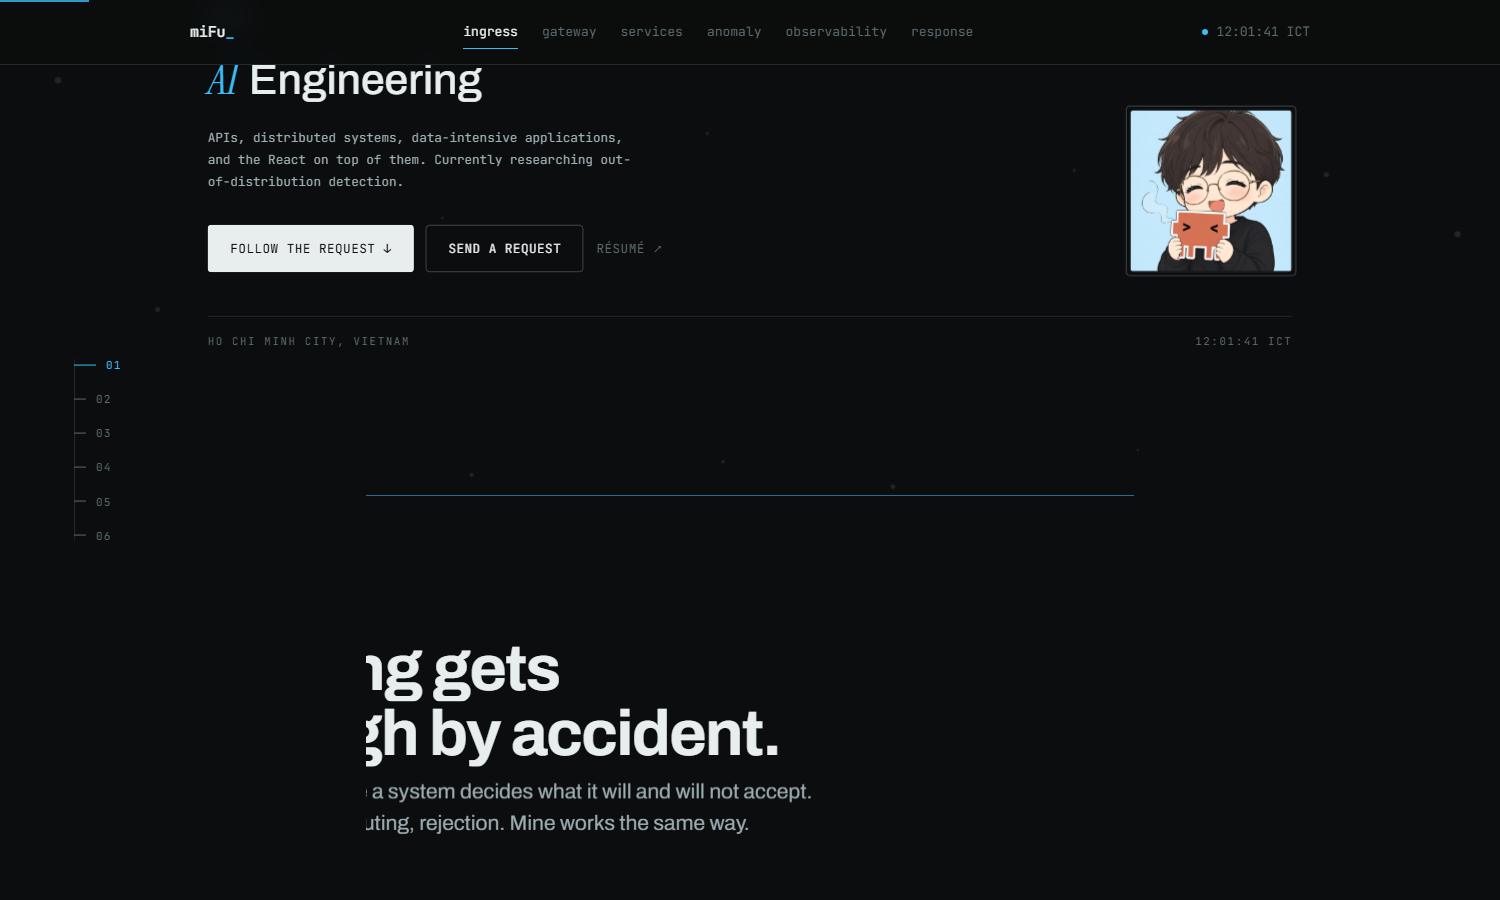
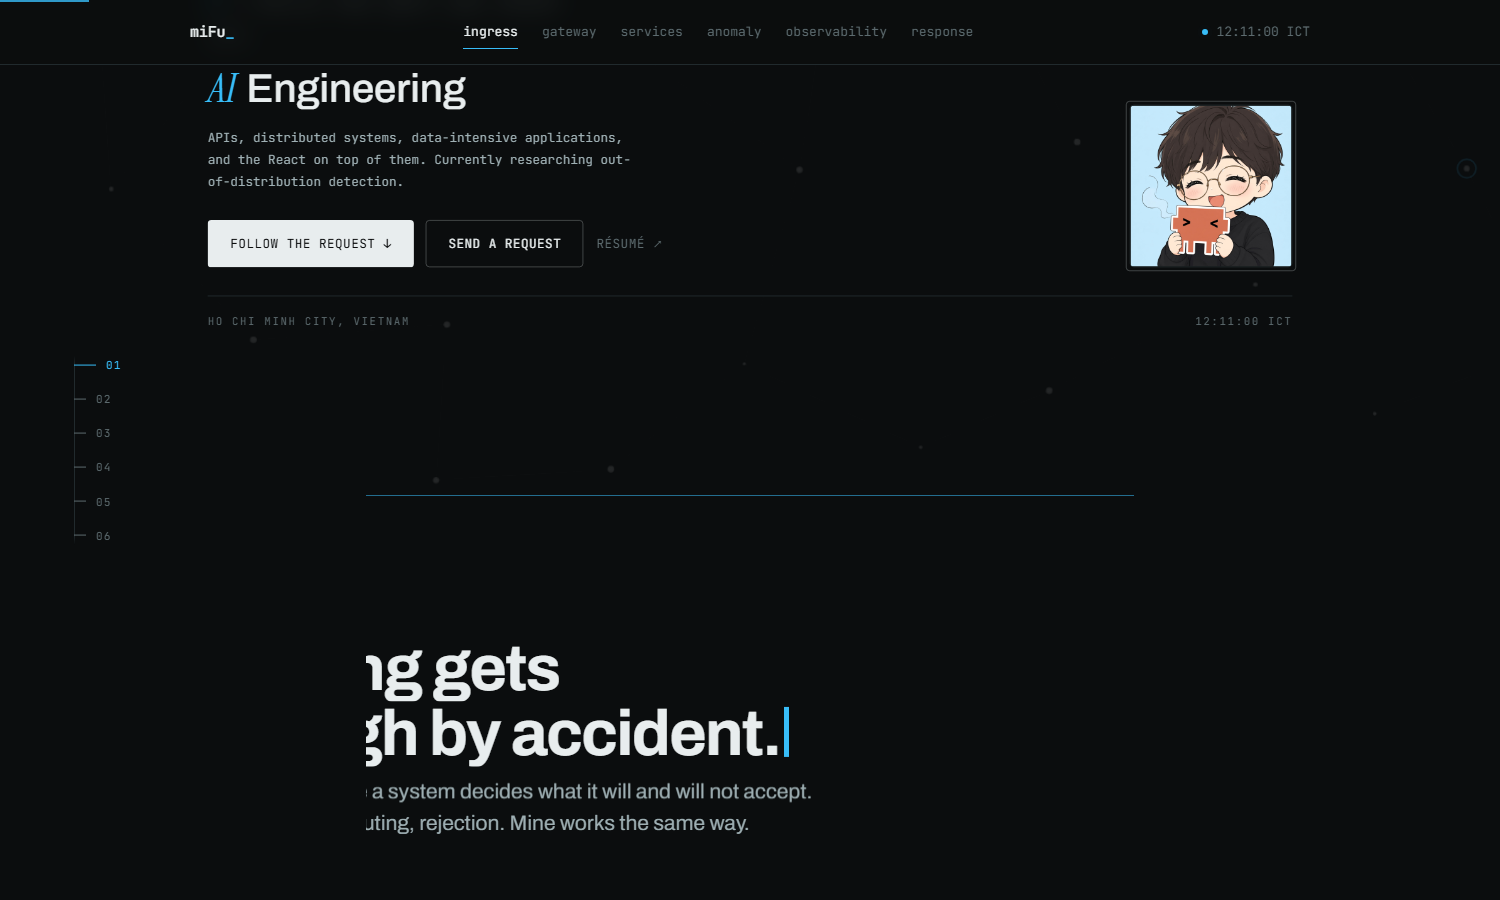
fix(hero): keep the opening frame inside one viewport
The hero overflowed its own first screen on short viewports: 52px at 1536x815,
80px at 1440x780, 117px at 1280x720, so the foot and the scroll cue sat under the
fold. The rhythm is height-aware now: the top and bottom padding, the five gaps
inside the block, the display size and the role size each take a share of the
viewport instead of a fixed number. Measured after: the hero is exactly the
viewport height at 1280x720, 1440x780, 1500x900, 1536x815 and 1920x1010.

The role swap is slower and only half animated. The cadence is 4.2s instead of
3.4s; the word that leaves dissolves at 300ms with a 24ms stagger; the tail dips
for 400ms. Nothing animates on the way in: the new word is there the instant it
changes, painted above the one dissolving behind it, and the tail snaps back
rather than sliding, because a return animation lands a beat after the word has
already been read. The glyph fragments are gone for now.

Verification: pnpm scroll, 39 checks, all passing. The role check now catches the
tail in the act of dipping, since it only animates while leaving.

diff --git a/src/styles/app.css b/src/styles/app.css
@@ -439,8 +439,12 @@
   /* Centred, not bottom-aligned: `end` pushed the block to the floor of the
      viewport and left a dead band at the top on tall screens. */
   align-items: center;
-  padding-top: 96px;
-  padding-bottom: clamp(2.5rem, 8vh, 6rem);
+  /* Height-aware, all of it. The opening frame is a claim, a role, a lead, the
+     actions and the foot, and on a 720px viewport the fixed rhythm this started
+     with ran the foot off the bottom of the hero, so the page's first screen no
+     longer fitted its own first screen. */
+  padding-top: clamp(64px, 10vh, 96px);
+  padding-bottom: clamp(32px, 7vh, 6rem);
   overflow: hidden;
 }
 
@@ -493,7 +497,7 @@
   letter-spacing: 0.02em;
   color: var(--text-body);
   line-height: 1.5;
-  margin-top: var(--sp-6);
+  margin-top: clamp(10px, 1.8vh, var(--sp-6));
   max-width: 34ch;
   min-height: 3em;
 }
@@ -521,8 +525,8 @@
 .hero__role {
   display: flex;
   align-items: baseline;
-  margin-top: var(--sp-6);
-  font-size: clamp(1.75rem, 3.4vw, 2.75rem);
+  margin-top: clamp(10px, 1.8vh, var(--sp-6));
+  font-size: clamp(1.5rem, min(3.4vw, 4.6vh), 2.75rem);
   line-height: 1.15;
 }
 
@@ -541,6 +545,8 @@
 }
 
 .role__word {
+  position: relative;
+  z-index: 1;
   display: inline-block;
   white-space: nowrap;
 }
@@ -549,26 +555,20 @@
   position: absolute;
   left: 0;
   top: 0;
+  z-index: 0;
   pointer-events: none;
 }
 
-/* Left to right, a character at a time: the word comes apart rather than being
-   swapped out, which is the effect the reference site gets from petals. */
+/* The word that arrives does so at once; only the one leaving is animated. It
+   dissolves left to right a character at a time, behind the new word, so the
+   line is readable the whole way through the swap. */
 .role__char {
   display: inline-block;
-  animation: roleCharIn 340ms var(--ease-out) both;
-  animation-delay: calc(180ms + var(--i, 0) * 28ms);
 }
 
 .role__word--out .role__char {
   animation: roleCharOut 300ms var(--ease-out) both;
-  animation-delay: calc(var(--i, 0) * 28ms);
-}
-
-@keyframes roleCharIn {
-  from {
-    opacity: 0;
-  }
+  animation-delay: calc(var(--i, 0) * 24ms);
 }
 
 @keyframes roleCharOut {
@@ -577,46 +577,7 @@
   }
 }
 
-/* Glyph fragments thrown off by each swap. Decoration, hidden from the reader.
-   They fall and drift outward rather than rising, so they never cross the claim
-   above the line. */
-.role__bits {
-  position: absolute;
-  left: 0;
-  top: 0;
-  pointer-events: none;
-}
-
-.role__bit {
-  position: absolute;
-  left: calc(14% + var(--n, 0) * 16%);
-  top: 22%;
-  font-family: var(--font-mono);
-  font-size: 0.4em;
-  color: var(--signal);
-  opacity: 0;
-  animation: roleBit 820ms var(--ease-out) both;
-  animation-delay: calc(60ms + var(--n, 0) * 40ms);
-}
-
-@keyframes roleBit {
-  0% {
-    opacity: 0;
-    transform: translate3d(0, 0, 0);
-  }
-
-  20% {
-    opacity: 0.7;
-  }
-
-  100% {
-    opacity: 0;
-    transform: translate3d(calc(var(--drift, 1) * 0.9em), 0.85em, 0);
-  }
-}
-
-/* The tail dips out of its own clip and comes back up, so the line reads as
-   stepping to the next word rather than cutting to it. */
+/* The tail dips out of its own clip and snaps back when the next word lands. */
 .role__tail {
   display: inline-block;
   clip-path: inset(-0.6em -0.25em 0 -0.25em);
@@ -627,21 +588,15 @@
 
 .role__tail-in {
   display: inline-block;
-  animation: tailDip 980ms var(--ease-rise) both;
+}
+
+.role__tail-in.is-dipping {
+  animation: tailDip 400ms var(--ease-rise) both;
 }
 
 @keyframes tailDip {
-  0% {
-    transform: translateY(0);
-  }
-
-  42%,
-  47% {
+  to {
     transform: translateY(112%);
-  }
-
-  100% {
-    transform: translateY(0);
   }
 }
 
@@ -674,19 +629,17 @@
     display: none;
   }
 
-  .role__char,
   .role__word--out .role__char,
-  .role__tail-in {
+  .role__tail-in.is-dipping {
     animation: none;
   }
 
-  .role__word--out,
-  .role__bits {
+  .role__word--out {
     display: none;
   }
 }
 .hero__lead {
-  margin-top: var(--sp-6);
+  margin-top: clamp(10px, 1.8vh, var(--sp-6));
   font-family: var(--font-mono);
   font-size: var(--fs-mono);
   line-height: 1.75;
@@ -697,7 +650,7 @@
   display: flex;
   flex-wrap: wrap;
   gap: var(--sp-3);
-  margin-top: var(--sp-8);
+  margin-top: clamp(16px, 3vh, var(--sp-8));
 }
 
 @media (max-width: 640px) {
@@ -747,7 +700,7 @@
   justify-content: space-between;
   align-items: baseline;
   gap: var(--sp-4);
-  margin-top: clamp(2rem, 5vh, 3.5rem);
+  margin-top: clamp(16px, 3.2vh, 3.5rem);
   padding-top: var(--sp-4);
   border-top: 1px solid var(--line);
   flex-wrap: wrap;

diff --git a/src/components/ui/RoleSwap.tsx b/src/components/ui/RoleSwap.tsx
@@ -1,11 +1,11 @@
 import { useEffect, useRef, useState, type CSSProperties } from 'react';
 import { useRotatingIndex } from '../../hooks/useRotatingIndex';
 
-/** How long the word that is leaving stays in the DOM. */
-const EXIT_MS = 640;
+/** How long the word that is leaving stays in the DOM while it dissolves. */
+const EXIT_MS = 620;
 
-/** Glyph fragments that fly off on each swap, as if the word broke apart. */
-const BITS = ['0', '1', '#', '<', ';', '·'];
+/** How long the tail stays out of its clip before snapping back. */
+const DIP_MS = 400;
 
 interface RoleSwapProps {
   roles: readonly string[];
@@ -16,17 +16,17 @@ interface RoleSwapProps {
 /**
  * The hero's role: one word that changes, one that does not.
  *
- * The changing word is the accent, so it is the one that gets the serif and the
- * colour. It leaves by dissolving left to right, a character at a time, rather
- * than by sliding out of a mask, which is the difference between a word being
- * replaced and a word coming apart. The word after it is set in the page face
- * and simply gets out of the way while that happens: it dips out of its own clip
- * and comes back up, and because it is in normal flow it moves with the width of
- * the word in front of it rather than being pinned to a slot.
+ * Only the leaving animates. The word that goes dissolves left to right, one
+ * character at a time, and the word that comes stays behind it rather than
+ * appearing on top, so the new word is legible the instant it is there. The tail
+ * after it dips out of its own clip, then snaps back when the next word has
+ * landed: an exit with a hard return, because a return animation would drag the
+ * line back into place a beat after the reader has already read it.
  */
-const RoleSwap = ({ roles, tail, intervalMs = 3400 }: RoleSwapProps) => {
+const RoleSwap = ({ roles, tail, intervalMs = 4200 }: RoleSwapProps) => {
   const active = useRotatingIndex(roles.length, intervalMs);
   const [leaving, setLeaving] = useState<{ word: string; key: number } | null>(null);
+  const [dipping, setDipping] = useState(false);
   const previous = useRef(roles[0]);
 
   useEffect(() => {
@@ -34,10 +34,15 @@ const RoleSwap = ({ roles, tail, intervalMs = 3400 }: RoleSwapProps) => {
     if (word === previous.current) return;
 
     setLeaving({ word: previous.current, key: Date.now() });
+    setDipping(true);
     previous.current = word;
 
-    const timer = window.setTimeout(() => setLeaving(null), EXIT_MS);
-    return () => window.clearTimeout(timer);
+    const exit = window.setTimeout(() => setLeaving(null), EXIT_MS);
+    const dip = window.setTimeout(() => setDipping(false), DIP_MS);
+    return () => {
+      window.clearTimeout(exit);
+      window.clearTimeout(dip);
+    };
   }, [active, roles]);
 
   const word = roles[active];
@@ -54,30 +59,17 @@ const RoleSwap = ({ roles, tail, intervalMs = 3400 }: RoleSwapProps) => {
             ))}
           </span>
         )}
-        <span className="role__word" key={`in-${word}`}>
+        <span className="role__word">
           {[...word].map((char, i) => (
-            <span className="role__char" key={i} style={{ '--i': i } as CSSProperties}>
+            <span className="role__char" key={i}>
               {char}
-            </span>
-          ))}
-        </span>
-        <span className="role__bits" aria-hidden="true">
-          {BITS.map((bit, i) => (
-            <span
-              className="role__bit"
-              key={`${word}-${i}`}
-              style={{ '--n': i, '--drift': i % 2 === 0 ? -1 : 1 } as CSSProperties}
-            >
-              {bit}
             </span>
           ))}
         </span>
       </span>
 
       <span className="role__tail" aria-hidden="true">
-        <span className="role__tail-in" key={`tail-${word}`}>
-          {tail}
-        </span>
+        <span className={dipping ? 'role__tail-in is-dipping' : 'role__tail-in'}>{tail}</span>
       </span>
 
       <span className="sr-only">

diff --git a/src/styles/tokens.css b/src/styles/tokens.css
@@ -34,7 +34,7 @@
      rather than as another weight of the same one. */
   --font-role: 'Instrument Serif', Georgia, serif;
   --font-mono: 'JetBrains Mono', ui-monospace, 'SF Mono', Menlo, monospace;
-  --fs-display-xl: clamp(2.75rem, 9vw, 7.5rem);
+  --fs-display-xl: clamp(2.75rem, min(9vw, 13vh), 7.5rem);
   --fs-display-l: clamp(2rem, 5vw, 4rem);
   --fs-display-m: clamp(1.5rem, 2.8vw, 2.25rem);
   --fs-lead: clamp(1.0625rem, 1.4vw, 1.3125rem);
